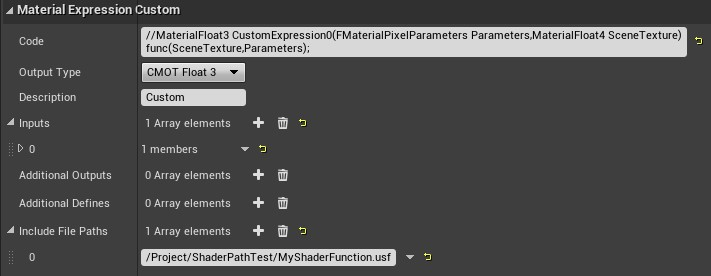
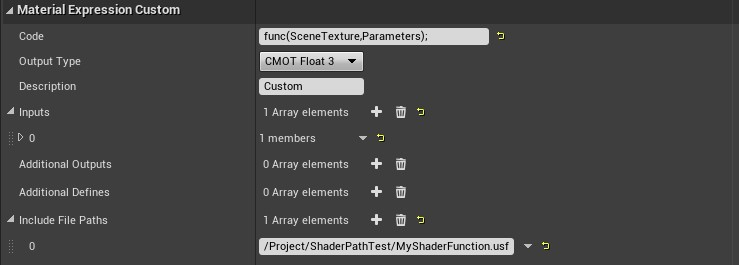
update post

diff --git a/_posts/2022-02-01-unreal-engine-custom-node.md b/_posts/2022-02-01-unreal-engine-custom-node.md
@@ -11,7 +11,7 @@ image: 2022-02-01-unreal-engine-custom-node/cover.png
 
 Recently I've been playing with raymarching technique and trying to implement it in Unreal Engine material editor. As the algorithm requires a **for loop** meaning it can only be done using HLSL code with the Custom Node.
 
-There are many pitfalls using custom node especially when the code is getting complex. The **details panel code editor** is very primitive so we want to edit the code over in like **VSCode**; also more options added into the panel and I barely used before -- here I documented some of my research and tests for future reference.
+There are many pitfalls using custom node especially when the code is getting complex. The **details panel code editor** is very primitive so we want to edit the code over in like **VSCode**; also more options added into the panel and I barely used before -- here I documented some of my **research and tests** for future reference.
 
 ## New custom node options
 An example:
@@ -22,20 +22,24 @@ An example:
 
 <img src="{{ site.url }}/images/2022-02-01-unreal-engine-custom-node/1_viz.jpg" width="480"  style="display:block; margin:auto;">
 
-Here is one test with generated code below. (See the generated code at **Window -> HLSL Code** in the Material Editor.)
+Here is the generated code below. (See the generated code at **Window -> HLSL Code** in the Material Editor.) Note that ```FMaterialPixelParameters Parameters``` got passed in by the compiler as an additional secret input.
 
 ```hlsl
 #ifndef additional_defines
 #define additional_defines 42
 #endif//additional_defines
-MaterialFloat3 CustomExpression0(FMaterialPixelParameters Parameters,MaterialFloat input, inout MaterialFloat a, inout MaterialFloat b)
+MaterialFloat3 CustomExpression0(
+  FMaterialPixelParameters Parameters,
+  MaterialFloat input, 
+  inout MaterialFloat a, 
+  inout MaterialFloat b)
 {
 a = input;
 b = a+1;
 return b;
 }
 ```
-> It’s super helpful in troubleshooting because you can also see all of the auto-generated boilerplate code that gets included in the final shader. You can also look at the code at ```C:\Program Files\Epic Games\UE_4.27\Engine\Shaders``` - lots of good stuff in there. 
+> This is super helpful in troubleshooting because you can see all of the auto-generated boilerplate code that gets included in the final shader. You can also look at the code at ```C:\Program Files\Epic Games\UE_4.27\Engine\Shaders``` - lots of good stuff in there. 
 
 ^ More digging in next post! :)
 
@@ -51,45 +55,51 @@ MaterialFloat3 CustomExpression0(FMaterialPixelParameters Parameters)
 Based on this a hack can be done by type in code like this:
 
 ```hlsl
-  return 1;
-}
+//MaterialFloat3 CustomExpression0(FMaterialPixelParameters Parameters)
+//{
+    return 1;
+  }
 
-float MyGlobalVariable;
+  float MyGlobalVariable;
 
-float MyGlobalFunction(float a)
-{
-  return a;
+  float MyGlobalFunction(float a)
+  {
+    return a;
+//}
 ```
 
-The trick on curly brackets breaks down the function and defined MyGlobalVariable and MyGlobalFunction() in the global namespace. (Hacky but cool!)
+You can see the trick on curly brackets breaks down the function and defined MyGlobalVariable and MyGlobalFunction() in the global namespace. (Hacky but cool!)
 
 
 ## #include shader code
 ### Issues
-Obviously we want to use the **Include File Paths** option in details panel. But this easily triggers some errors like:
+Obviously we want to use the **Include File Paths** option in details panel. But this easily triggers some errors like (say you put your shader at a dummy path ```/Project/a.usf```):
+
+<img src="{{ site.url }}/images/2022-02-01-unreal-engine-custom-node/2_error.jpg"  style="display:block; margin:auto;">
 
 ```
-[SM5] Can't map virtual shader source path "/test/a.usf".
+[SM5] Can't map virtual shader source path "/Project/a.usf".
 Directory mappings are:
   /Engine -> D:/Program Files/Epic Games/UE_4.27/Engine/Shaders
-  ...
-[SM5] /Engine/Generated/Material.ush(2083): error: Can't open include file "/test/a.usf"
-    #include "/test/a.usf"
-    from /Engine/Private/BasePassVertexCommon.ush: 15:    #include "/Engine/Generated/Material.ush"
-    from /Engine/Private/BasePassVertexShader.usf: 7:    #include "BasePassVertexCommon.ush"
-    from /Engine/Private/BasePassPixelShader.usf: 38:    #include "/Engine/Generated/Material.ush"
-    from /Engine/Private/DebugViewModeVertexShader.usf: 28:    #include "/Engine/Generated/Material.ush"
+[SM5] /Engine/Generated/Material.ush(2080): error: Can't open include file "/Project/a.usf"
+  #include "/Project/a.usf"
+  from /Engine/Private/BasePassVertexCommon.ush: 15:    #include "/Engine/Generated/Material.ush"
+  from /Engine/Private/BasePassVertexShader.usf: 7:    #include "BasePassVertexCommon.ush"
+  from /Engine/Private/BasePassPixelShader.usf: 38:    #include "/Engine/Generated/Material.ush"
+[SM5] 1 error in preprocessor.
 ```
 
-UE is expecting you putting custom node hlsl code (.usf or .ush) at engine source ```/Engine -> D:/Program Files/Epic Games/UE_4.27/Engine/Shaders``` folder which is not very convenient - what if I want my shader ship with my project?
+UE is expecting you putting custom node hlsl code (.usf or .ush) at ```/Engine -> D:/Program Files/Epic Games/UE_4.27/Engine/Shaders```  which is not very convenient - what if I want my shader shipped with my project?
 
 
 ### Modify C++ Code
 <img src="{{ site.url }}/images/2022-02-01-unreal-engine-custom-node/2_cpp.jpg" style="display:block; margin:auto;">
 
-Convert current project into C++ project by creating a new C++ class and compile. You may need to right click the ```.uproject``` file icon and and **Generate Visual Studio Project** Files for the project to load correctly into Visual Studio and compile.
+Convert current project into C++ project by creating a new dummy C++ class and compile(I created one called MyActor inherited from Actor base class.). 
 
-Create a folder called ```Shader``` at the same level as Content folder in the project directory.
+You may need to right click the ```.uproject``` file icon and and **Generate Visual Studio Project** Files for the project to load correctly into Visual Studio and compile.
+
+Create a folder called ```Shaders``` at the **same level as Content folder in the project directory**.
 
 Add ```RenderCore``` to array of public dependency modules in the ```<project>.build.cs``` file:
 
@@ -158,18 +168,46 @@ IMPLEMENT_PRIMARY_GAME_MODULE(FShaderBitsModule, Project, "Project"); // edit th
 ```
 
 ### Include shader code
-Then you can include the shader file from your ```/<Project>/Shaders``` folder by doing:
+Then you can create your shaders at ```/<Project>/Shaders``` like:
 
-<img src="{{ site.url }}/images/2022-02-01-unreal-engine-custom-node/2_inc.jpg" width="600"  style="display:block; margin:auto;">
+ <img src="{{ site.url }}/images/2022-02-01-unreal-engine-custom-node/2_inc3.jpg"  style="display:block; margin:auto;">
 
-Note that you need the ```return 1;```. 
+and include the shader file:
 
-Or using the panel, then you need to call the function explicitly:
+<img src="{{ site.url }}/images/2022-02-01-unreal-engine-custom-node/2_inc2.jpg"  style="display:block; margin:auto;">
 
-<img src="{{ site.url }}/images/2022-02-01-unreal-engine-custom-node/2_inc2.jpg" width="600"  style="display:block; margin:auto;">
+Note that you may need to call the function explicitly.
+
+Or you can include directly in the code block:
+
+```hlsl
+#include "/Project/ShaderPathTest/MyShaderStatement.usf"
+return 1;
+```
+
+<img src="{{ site.url }}/images/2022-02-01-unreal-engine-custom-node/2_inc.jpg"  style="display:block; margin:auto;">
+
+Note that you need the ```return 1;``` in this case to let the compiler know it is a valid function.
+
+Check the generated code you will see the difference in nuance:
+
+```hlsl
+MaterialFloat3 CustomExpression0(FMaterialPixelParameters Parameters,MaterialFloat4 SceneTexture)
+{
+#include "/Project/ShaderPathTest/MyShaderStatement.usf"
+return 1;
+}
+```
+
+```hlsl
+#include "/Project/ShaderPathTest/MyShaderFunction.usf"
+MaterialFloat3 CustomExpression0(FMaterialPixelParameters Parameters,MaterialFloat4 SceneTexture)
+{
+return func(SceneTexture,Parameters);;
+}
+```
 
 Then after editing code in external editor and save, in the material editor **add a newline to the code (shift-enter)** to trigger a recomplie and click the Apply button.
-
 
 
 ## Define Multiple Functions inside UE4’s Custom Node
